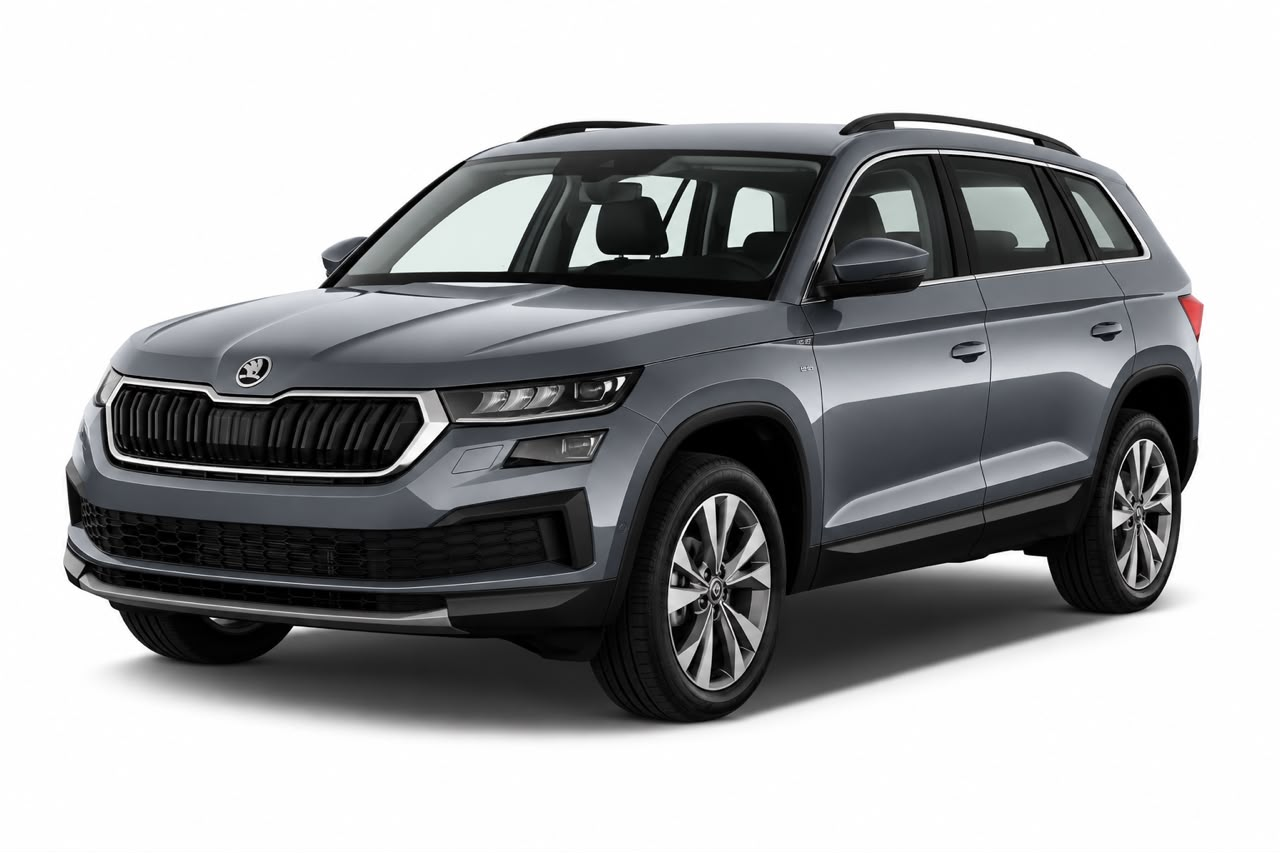
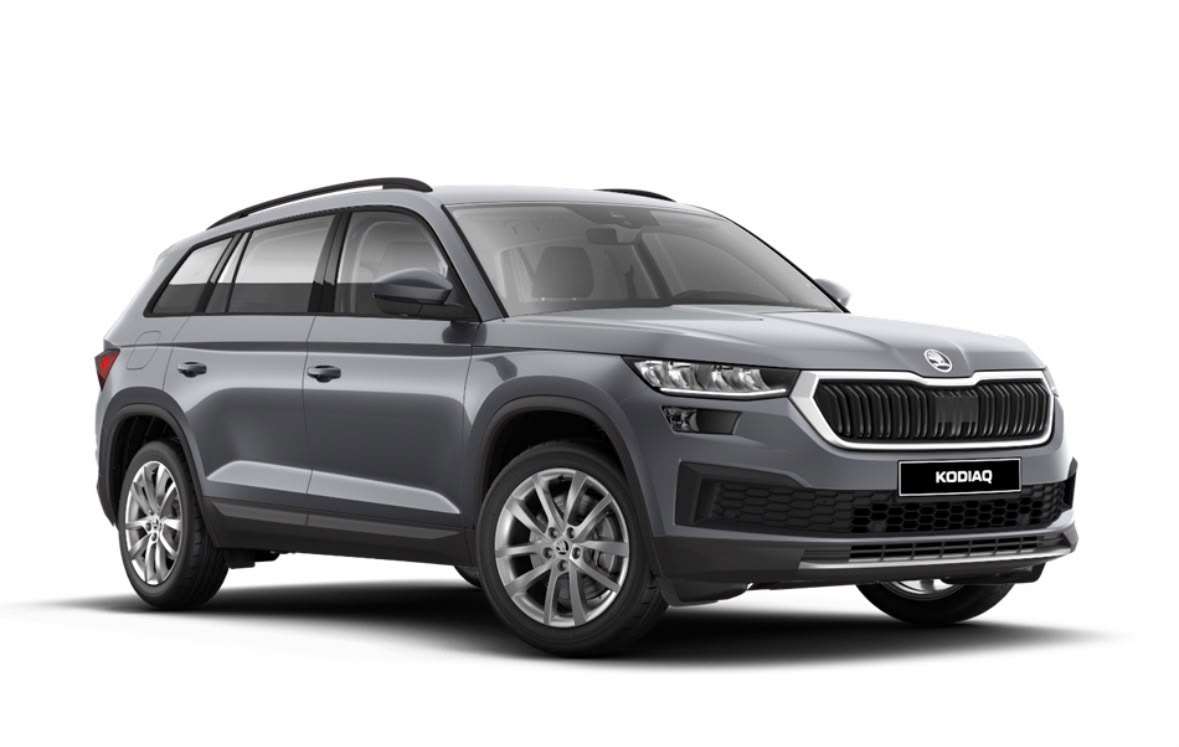
fd

diff --git a/index.html b/index.html
@@ -601,7 +601,7 @@ input,select,textarea{font:inherit;outline:none}
 <div class="vehicle-card-features"><span class="vehicle-card-feature"><i class="fas fa-user"></i> 1–3 pax</span><span class="vehicle-card-feature"><i class="fas fa-suitcase"></i> 2 bags</span><span class="vehicle-card-feature"><i class="fas fa-wifi"></i> WiFi</span><span class="vehicle-card-feature"><i class="fas fa-snowflake"></i> A/C</span></div>
 <div class="vehicle-card-footer"><div class="vehicle-card-price">€40 <span>/ trip</span></div><a href="https://wa.me/[phone redacted]?text=I'm%20interested%20in%20Economy%20Sedan" target="_blank" class="btn btn-whatsapp btn-sm"><i class="fab fa-whatsapp"></i> Book</a></div></div></div>
 
-<div class="vehicle-card reveal"><div class="vehicle-card-image" style="background-image:url('https://images.unsplash.com/photo-1550355291-bedd9a5c52b0?w=600&q=80')"><span class="vehicle-card-badge popular">⭐ Most Popular</span></div>
+<div class="vehicle-card reveal"><div class="vehicle-card-image" style="background-image:url('./images/car/SUV/2.jpeg')"><span class="vehicle-card-badge popular">⭐ Most Popular</span></div>
 <div class="vehicle-card-body"><h3 class="vehicle-card-name">Premium Sedan</h3><div class="vehicle-card-class">Business Class</div><p class="vehicle-card-desc">Extra legroom, premium interior, and enhanced comfort for long journeys.</p>
 <div class="vehicle-card-features"><span class="vehicle-card-feature"><i class="fas fa-user"></i> 1–4 pax</span><span class="vehicle-card-feature"><i class="fas fa-suitcase"></i> 3 bags</span><span class="vehicle-card-feature"><i class="fas fa-wifi"></i> 5G WiFi</span><span class="vehicle-card-feature"><i class="fas fa-snowflake"></i> A/C</span></div>
 <div class="vehicle-card-footer"><div class="vehicle-card-price">€55 <span>/ trip</span></div><a href="https://wa.me/[phone redacted]?text=I'm%20interested%20in%20Premium%20Sedan" target="_blank" class="btn btn-whatsapp btn-sm"><i class="fab fa-whatsapp"></i> Book</a></div></div></div>